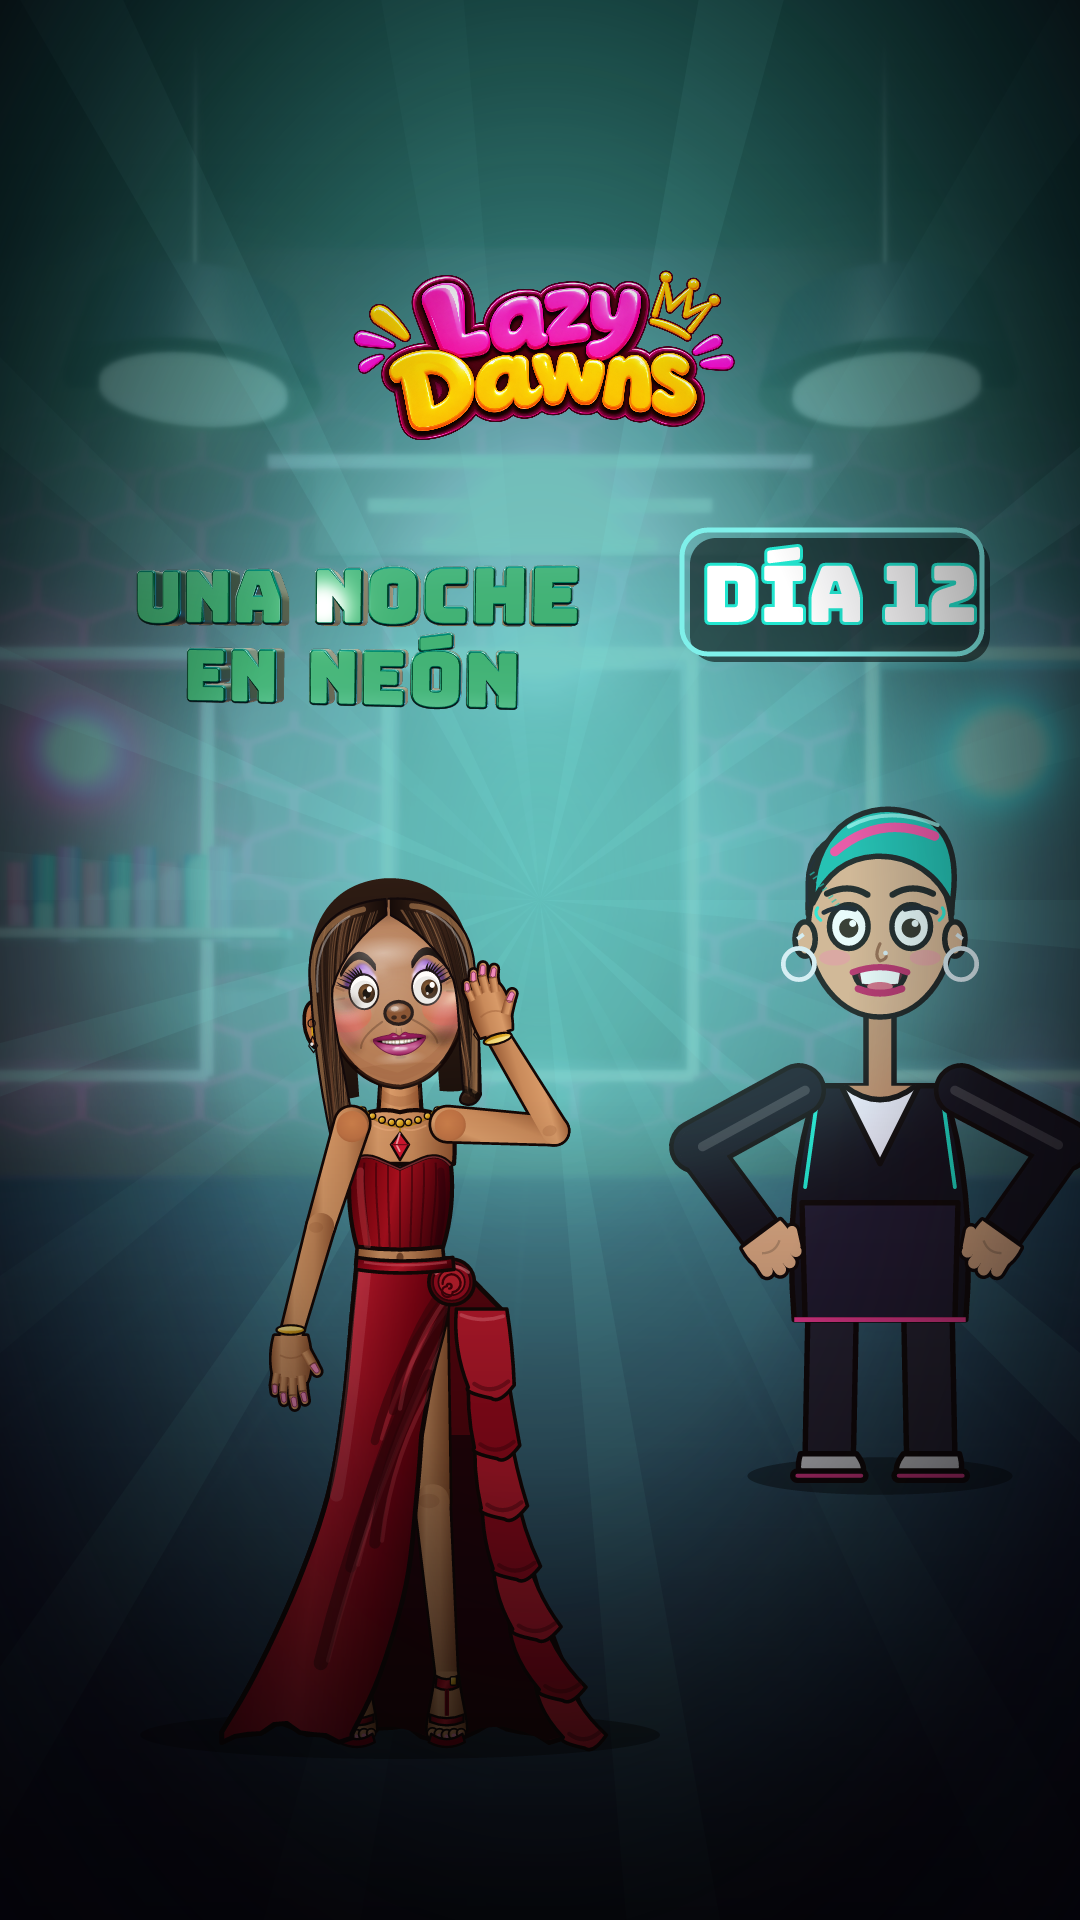
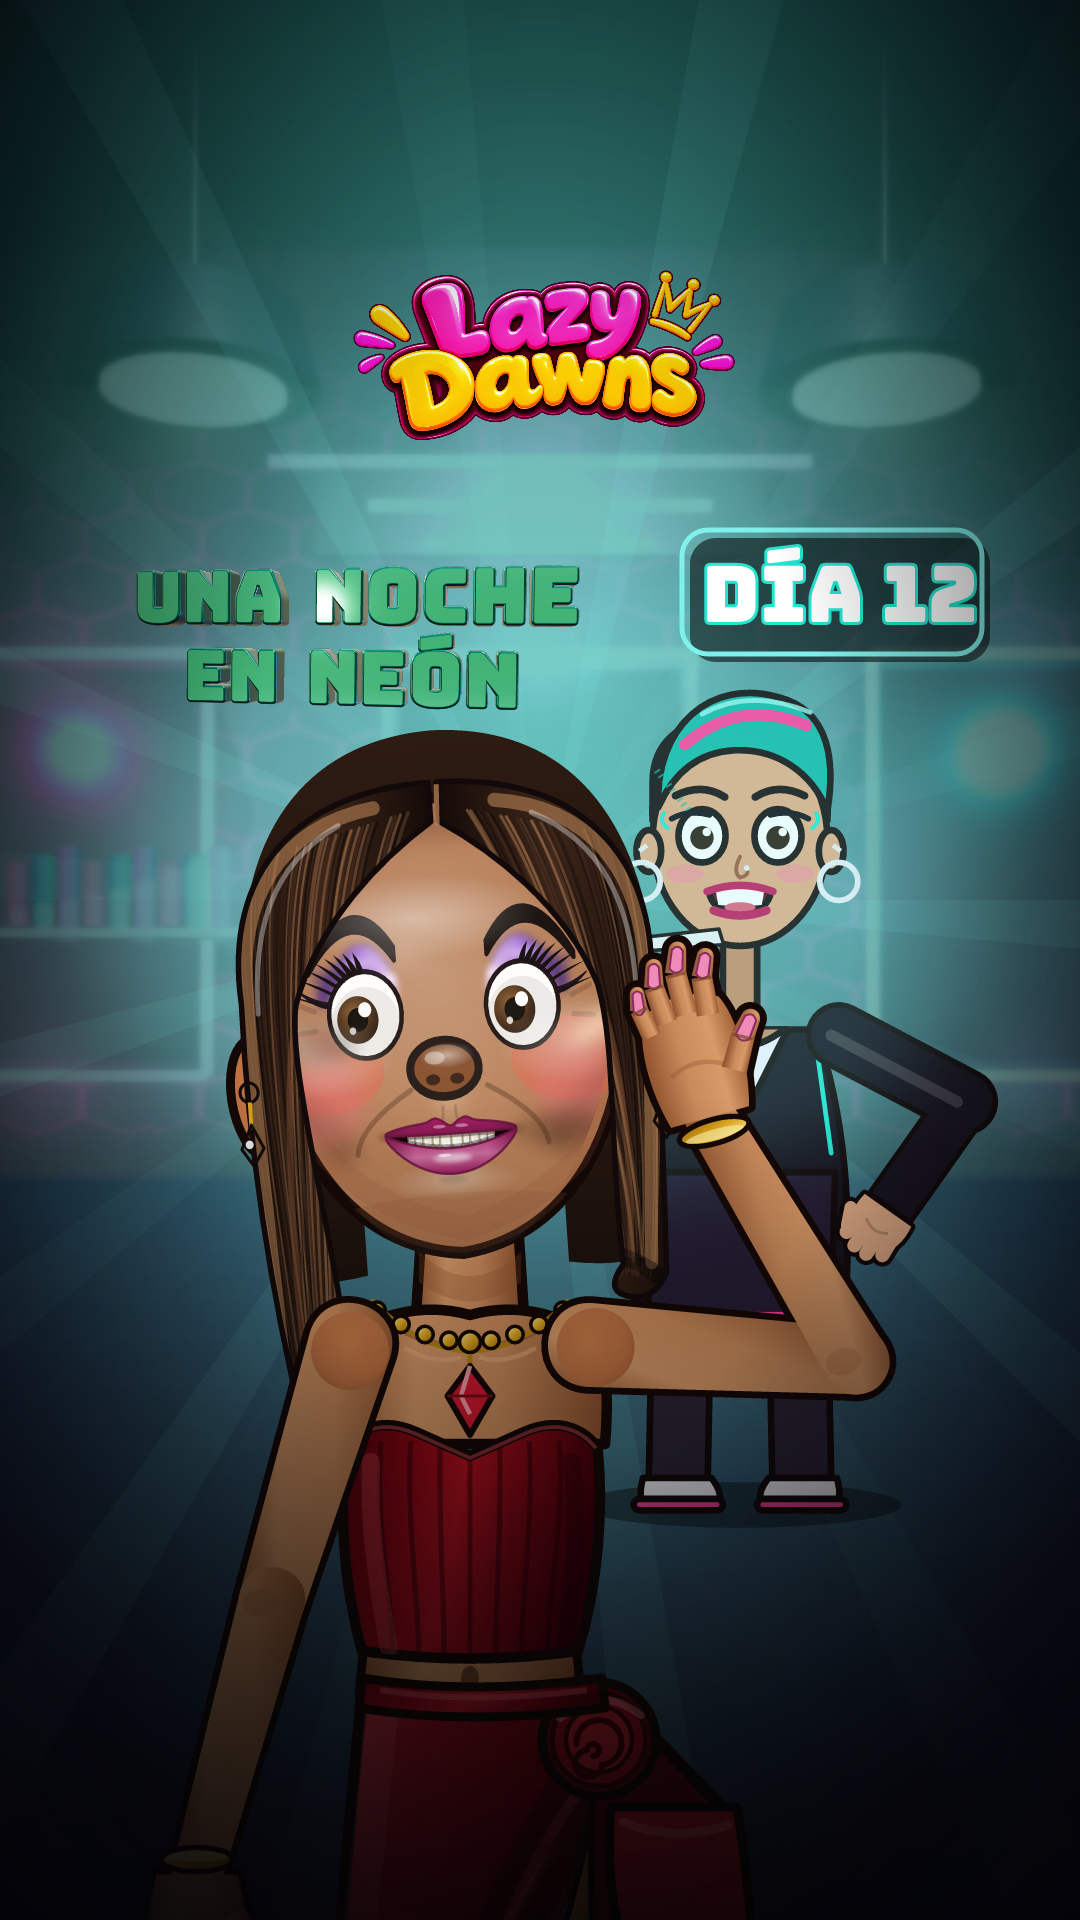
Portadas 12 y 13: Lazy de medio cuerpo, relaciones distintas con extras
Claude-Session: https://claude.ai/code/session_01VDdbgAKTwVog87zPcVcZjJ

Changed region(s): [[0.1833, 0.3438, 1.0, 0.9688]]

diff --git a/lazy-dawns/README.md b/lazy-dawns/README.md
@@ -211,3 +211,4 @@ Cada voto ofrece 2 opciones del banco de abajo (las que no hayan ganado se recic
 - Opciones del final: el icono de cada opcion debe ser EXACTAMENTE la cosa que se quiere arreglar (unas = mano con unas pintadas, zapatos = tacon), centrado dentro del circulo sin salirse.
 - Nada se traslapa: lo que aparece (celular, rotulos, personajes) no debe tapar subtitulos ni caras importantes.
 - SECUENCIA LOGICA (creador): los mensajes y todo evento deben seguir una secuencia coherente (quien escribe, a quien, respuestas en orden; la pista debe tener sentido: ej. Mari felicita la nariz nueva sin que Lazy le haya contado = pista).
+- PORTADAS (creador): la protagonista aparece de medio cuerpo hacia arriba y grande; cada portada con relacion/pose DISTINTA con el/los personajes extra detras.
